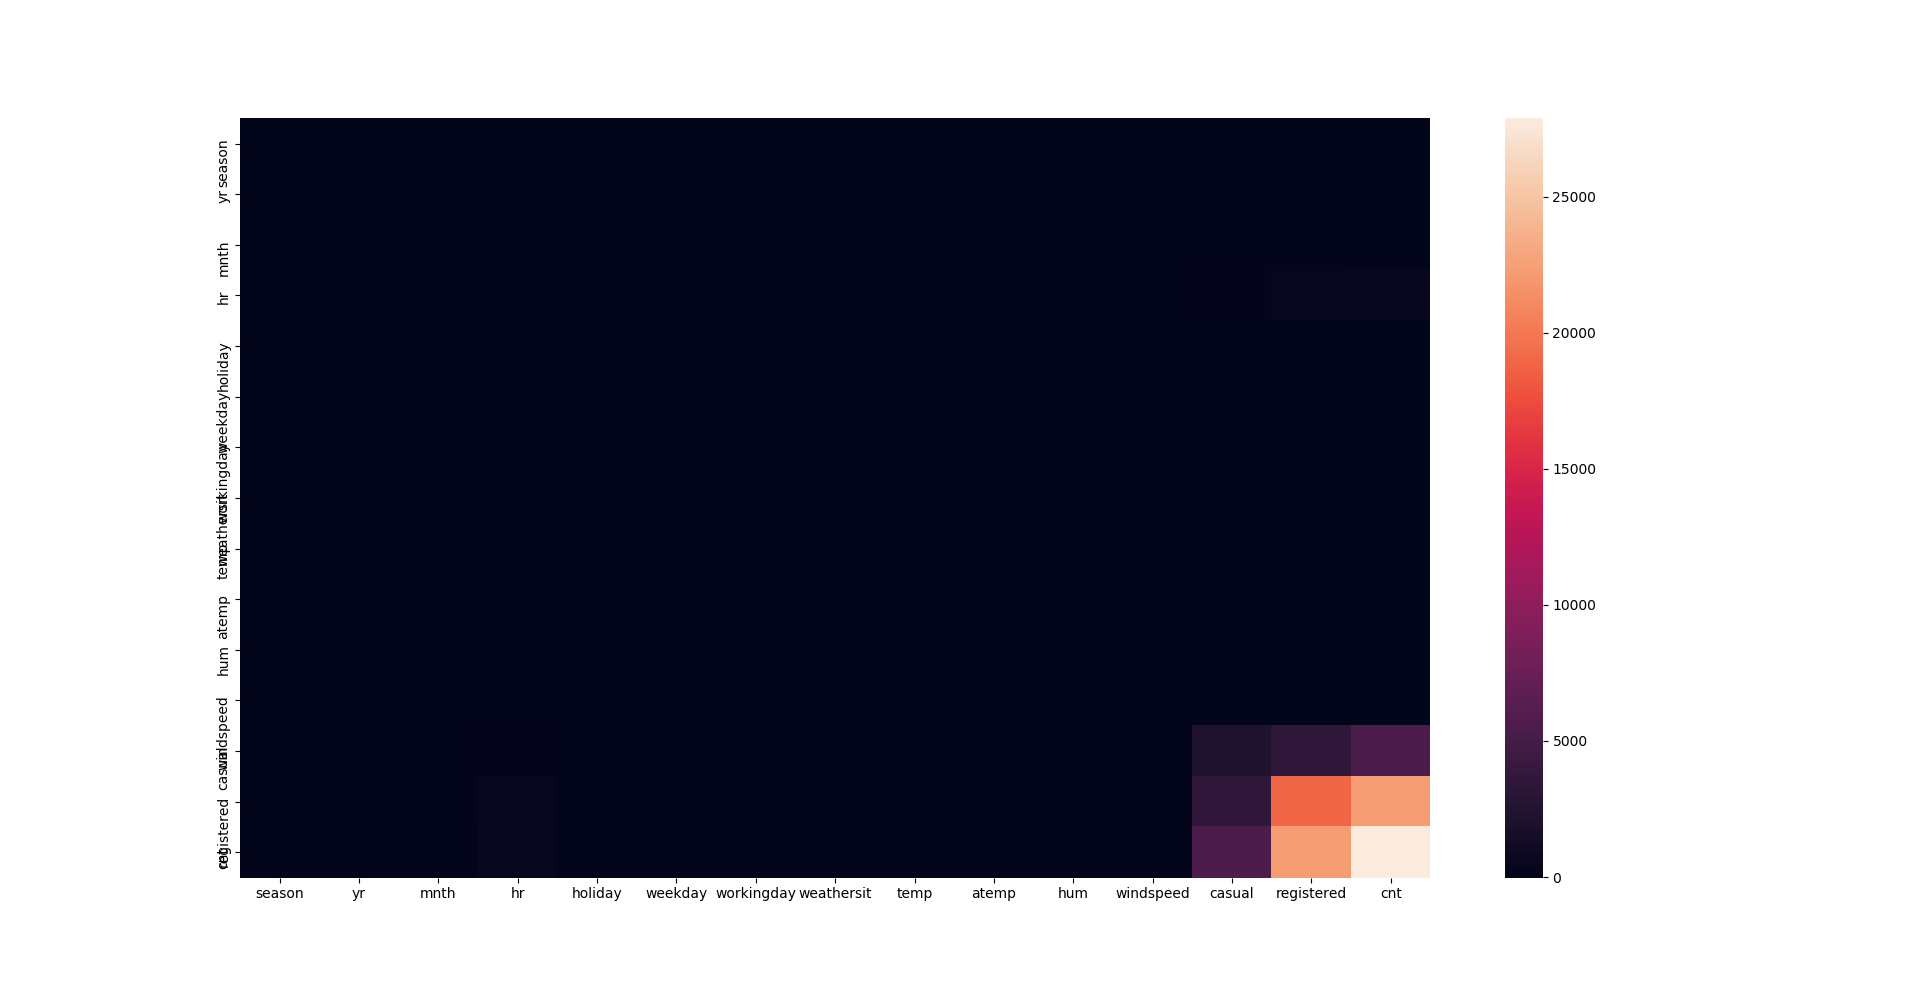
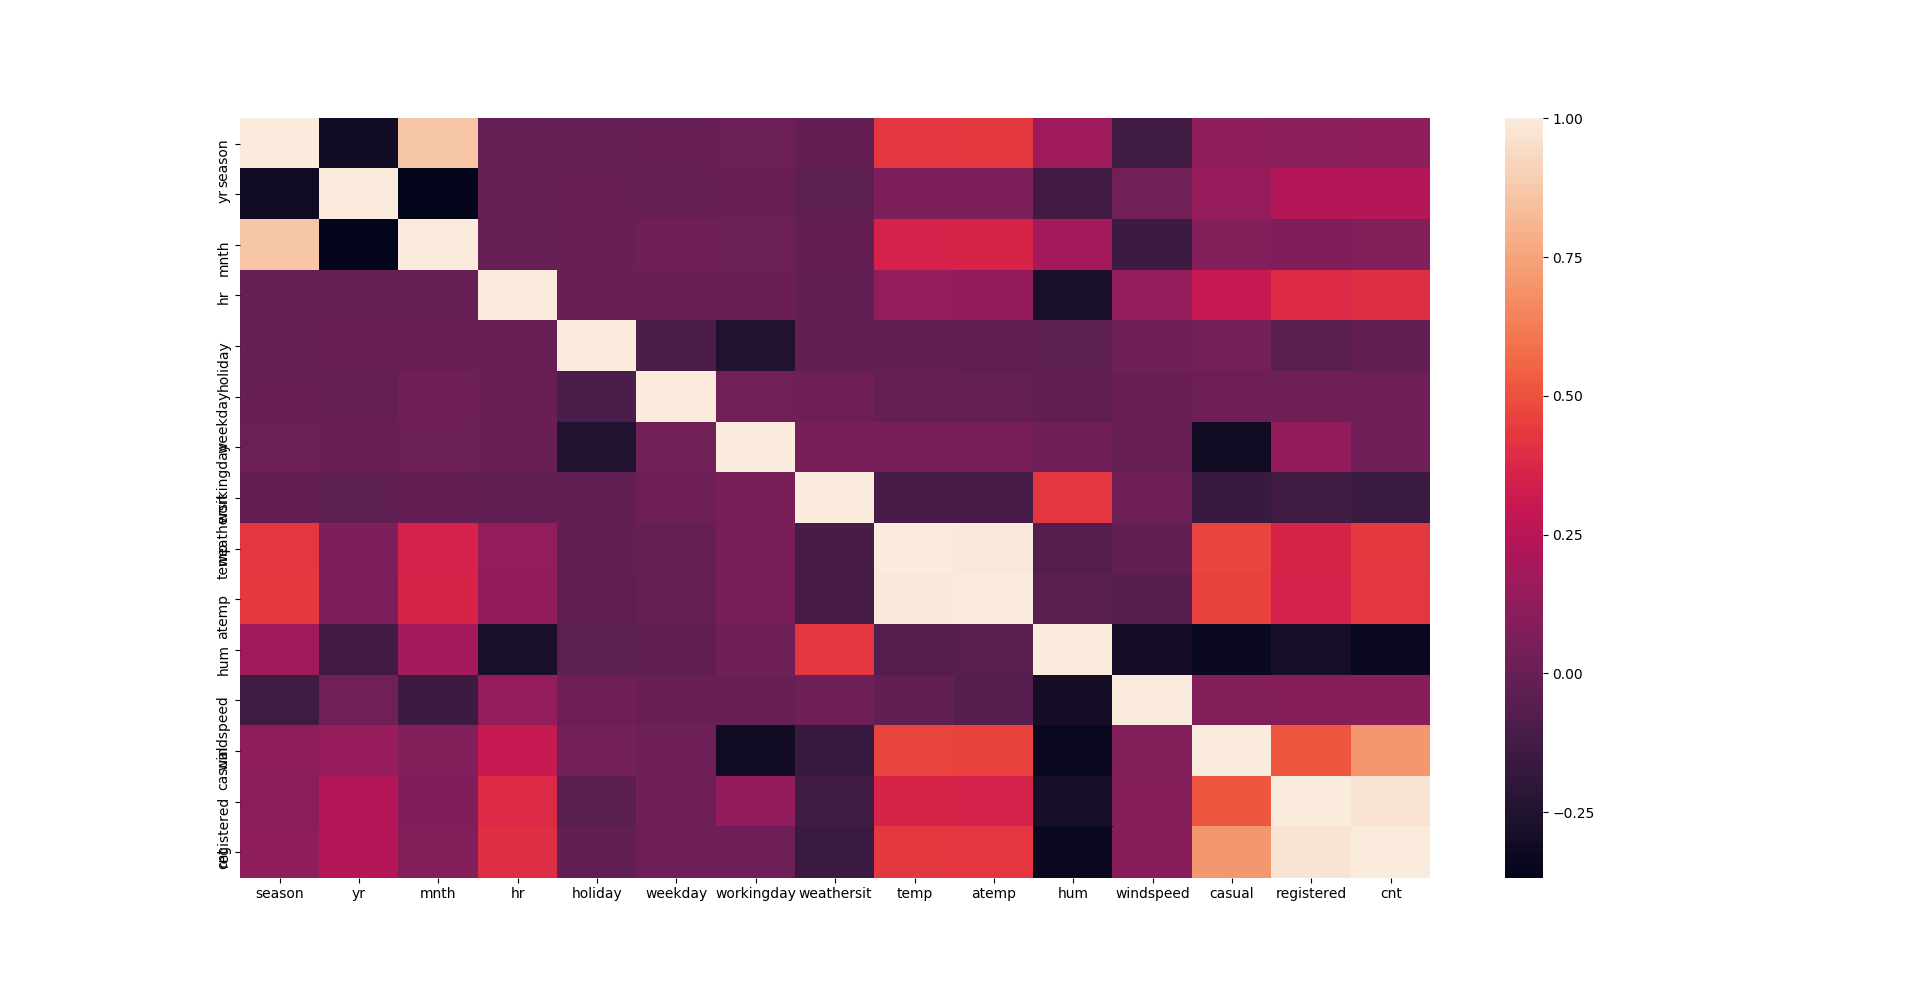
Find the correlation instead of covariance

diff --git a/visualization.py b/visualization.py
@@ -17,7 +17,7 @@ sns.pairplot(train)
 plt.show()
 
 # Find the correlations between each pair of features with heatmap
-sns.heatmap(train.cov())
+sns.heatmap(train.corr())
 plt.show()
 
 # Plot ann output with histogram
